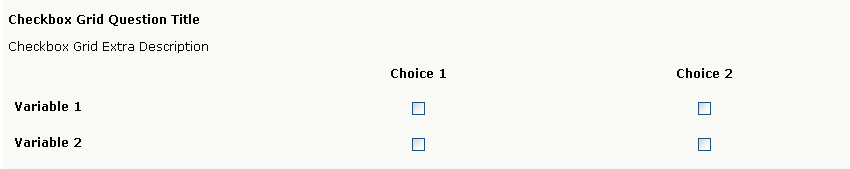
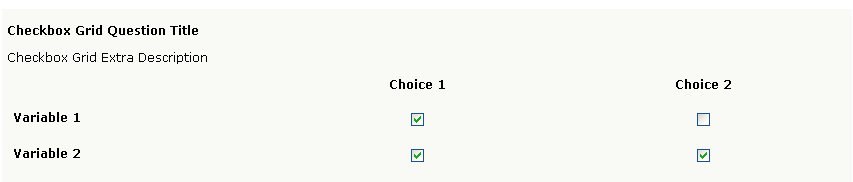
more images

diff --git a/chapters/Editor/advancedquestions.rst b/chapters/Editor/advancedquestions.rst
@@ -17,9 +17,9 @@ In brief, the Score Display question type is essentially what it says, a score d
 Checkbox Grid
 ^^^^^^^^^^^^^
 
-The Checkbox grid question type is the newest question addition in FluidSurveys, which is available under a new section labeled, “Advanced Options”. Similar to other grids, you have the same types of options available, such as specifying scores for answers, and forcing variables to be unique. The display options are similar to other grids in FluidSurveys.
+A Checkbox Grid allows for. Similar to other grids, you have the same types of options available, such as specifying scores for answers, and forcing variables to be unique. The display options are similar to other grids in FluidSurveys.
 
-.. figure:: ../../resources/editor/survey_title.png
+.. figure:: ../../resources/editor/checkbox_grid.png
 	:align: center
 	:scale: 70%
 	:alt: Survey Title
@@ -32,7 +32,7 @@ N-atrix
 
 The N-Atrix Question type allows for any question type to exist on any given row, such as text response, dropdown, checkboxes or radio buttons. A typical use for such a question type, is asking for detailed personal information where the types of questions can range between the available types (Dropdown for title, Text area for Name, or a Checkbox/Radio Button for types of phone numbers, or contact times)
 
-.. figure:: ../../resources/editor/survey_title.png
+.. figure:: ../../resources/editor/natrix.png
 	:align: center
 	:scale: 70%
 	:alt: N-Atrix Question Type
@@ -43,7 +43,9 @@ The N-Atrix Question type allows for any question type to exist on any given row
 Drill Down
 ^^^^^^^^^^
 
-.. figure:: ../../resources/editor/survey_title.png
+Drill Down questions allow respondents to select an answer by narrowing down their choice from a general category to a specific category. For example, you could first have respondents select which state they reside in, and then select which city within that state they reside in.
+
+.. figure:: ../../resources/editor/drilldown.png
 	:align: center
 	:scale: 70%
 	:alt: Drill Down Question Type
@@ -56,7 +58,7 @@ Drill Down
 
 Similar to the N-Atrix question type, a 3D Matrix question can have different question types within each column. A 3D Matrix question is an amazing source of information when you are trying to get as much information within one question, in so far that the reports generated by responses for a 3D Matrix are broken up into pieces, as seen in the example under section 130.2
 
-.. figure:: ../../resources/editor/survey_title.png
+.. figure:: ../../resources/editor/3dmatrix.png
 	:align: center
 	:scale: 70%
 	:alt: 3D Matrix Question Type
@@ -67,7 +69,11 @@ Similar to the N-Atrix question type, a 3D Matrix question can have different qu
 Semantic Differential
 ^^^^^^^^^^^^^^^^^^^^^
 
-.. figure:: ../../resources/editor/survey_title.png
+A Semantic Differential question allows respondents to rate a variable, or set of variables, on a scale of choices such as “Y to X” or “Very Unsatisfied to Very Satisfied”. The labels are shown at either ends of the question, and the choices are shown horizontally.
+
+This is a great question type to use if you want respondents to rank a specific, or set of items. For example, if you wanted to know how customers felt about your customer service and affordability on a scale of “Very Poor to Great”, you could use a Semantic Differential question.
+
+.. figure:: ../../resources/editor/semantic_differential.png
 	:align: center
 	:scale: 70%
 	:alt: Semantic Differential Question Type
@@ -78,7 +84,11 @@ Semantic Differential
 File Upload
 ^^^^^^^^^^^
 
-.. figure:: ../../resources/editor/survey_title.png
+File upload questions allows respondents to upload files alongside their responses. For example, a respondent could upload their resume, a video, pictures, etc. There’s no limit on the type of file that can be uploaded, or on the number of files.
+
+In analytics, the survey administrator will have the option of viewing, or downloading, the uploaded file.
+
+.. figure:: ../../resources/editor/file_upload.png
 	:align: center
 	:scale: 70%
 	:alt: File Upload Question Type
@@ -89,7 +99,13 @@ File Upload
 Net Promoter
 ^^^^^^^^^^^^
 
-.. figure:: ../../resources/editor/survey_title.png
+The Net Promoter question type is a fast and easy way for an organization to obtain their Net Promoter Score.
+
+It appears as a likert scale and can be inserted anywhere within a survey. The question asks respondents to rate how likely they’d be to recommend your offering to a friend, on a scale of “Not Likely at All to Very Likely”.
+
+In Analytics, your Net Promoter Score is automatically calculated by taking the % of people who gave you a score of 9 or 10 (promoters) and subtracting the % of people who gave you a score of 0-6 (detractors).
+
+.. figure:: ../../resources/editor/net_promoter.png
 	:align: center
 	:scale: 70%
 	:alt: Net Promoter Question Type
@@ -100,7 +116,19 @@ Net Promoter
 Hidden Field
 ^^^^^^^^^^^^
 
-.. figure:: ../../resources/editor/survey_title.png
+Hidden fields are questions that are only visible to the survey creator while editing the survey. They do not appear to respondents; however, the contents do appear in Analytics alongside responses.
+
+Hidden fields can store existing information, trigger survey logic, etc.
+
+**A Possible Use Case**
+
+A survey creator might have a variety of information about their respondents already in their records, such as their name, age, phone number, etc. Since they already have this information, there’s no need to ask for it in the survey.
+
+However, they may want to trigger survey logic based on some of this information. For example, show respondents in different age groups different questions.
+
+They can now pipe information from their contact list into a hidden field(s), and then create a branching condition based on it. In this case, they could say: If hidden field is 18 years old, show Question 1.
+
+.. figure:: ../../resources/editor/hidden_field.png
 	:align: center
 	:scale: 70%
 	:alt: Hidden Field Question Type
@@ -111,7 +139,9 @@ Hidden Field
 Timer
 ^^^^^
 
-.. figure:: ../../resources/editor/survey_title.png
+Timer questions are perfect for tablets, or even for online quizzes, that allow for you to time exactly when an individual started their survey, and how long it took for them to complete it.
+
+.. figure:: ../../resources/editor/timer.png
 	:align: center
 	:scale: 70%
 	:alt: Timer Question Type
